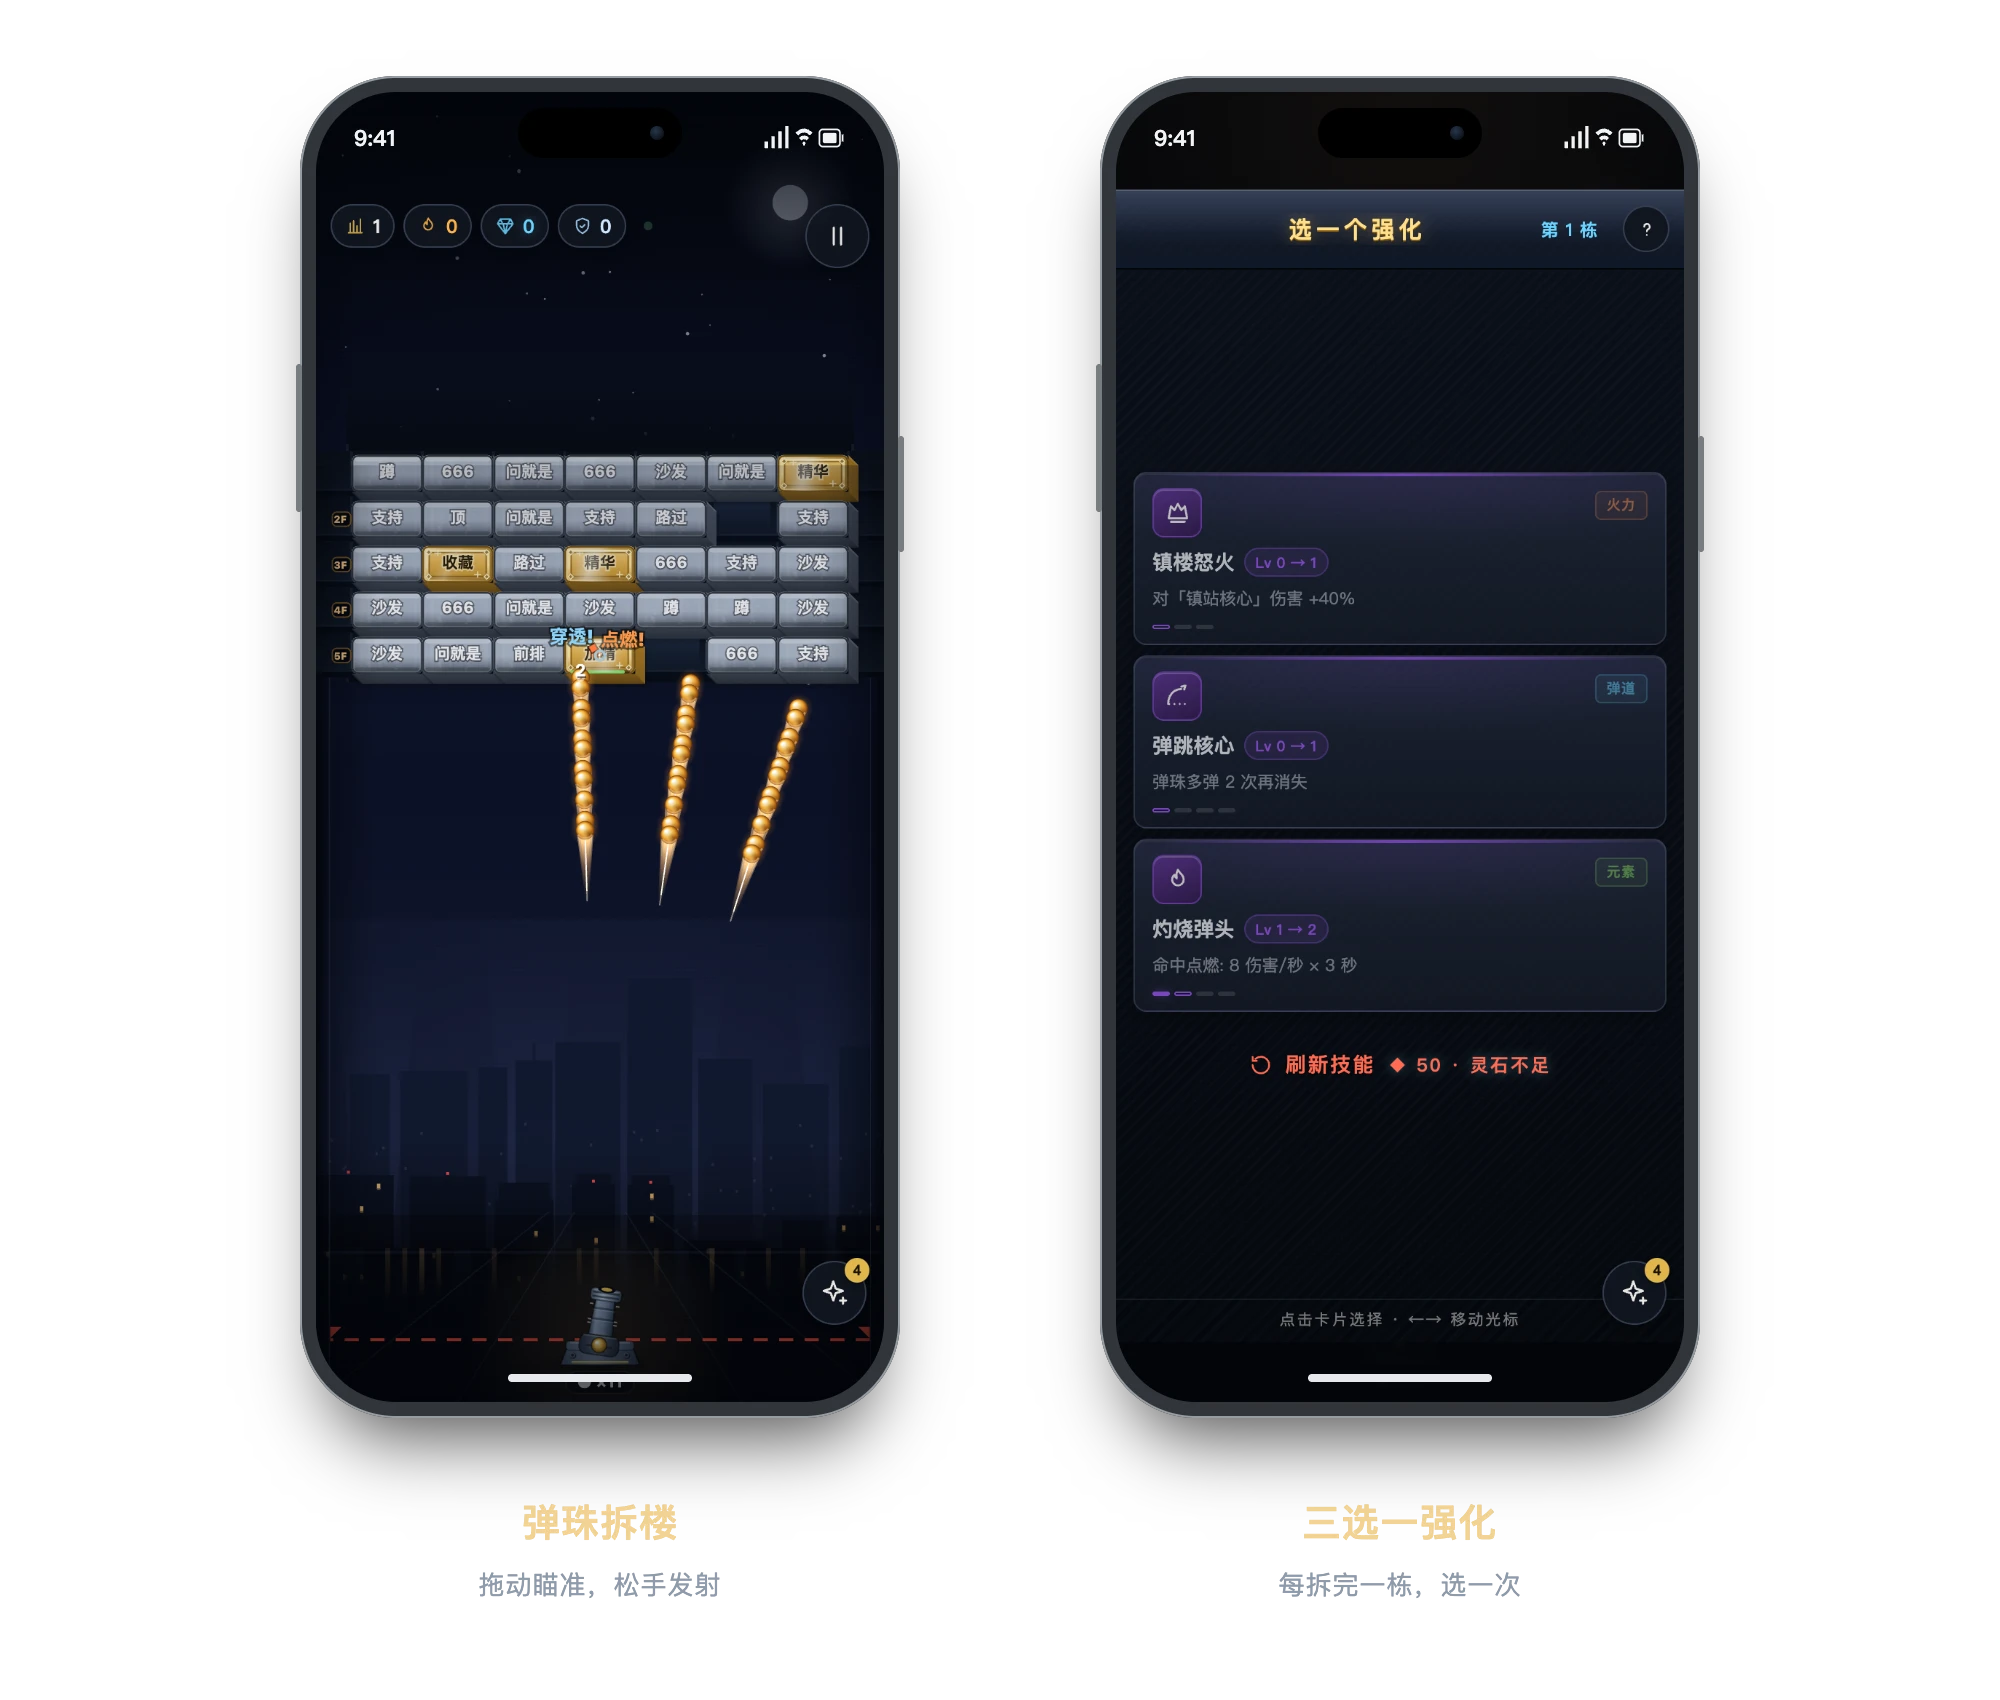
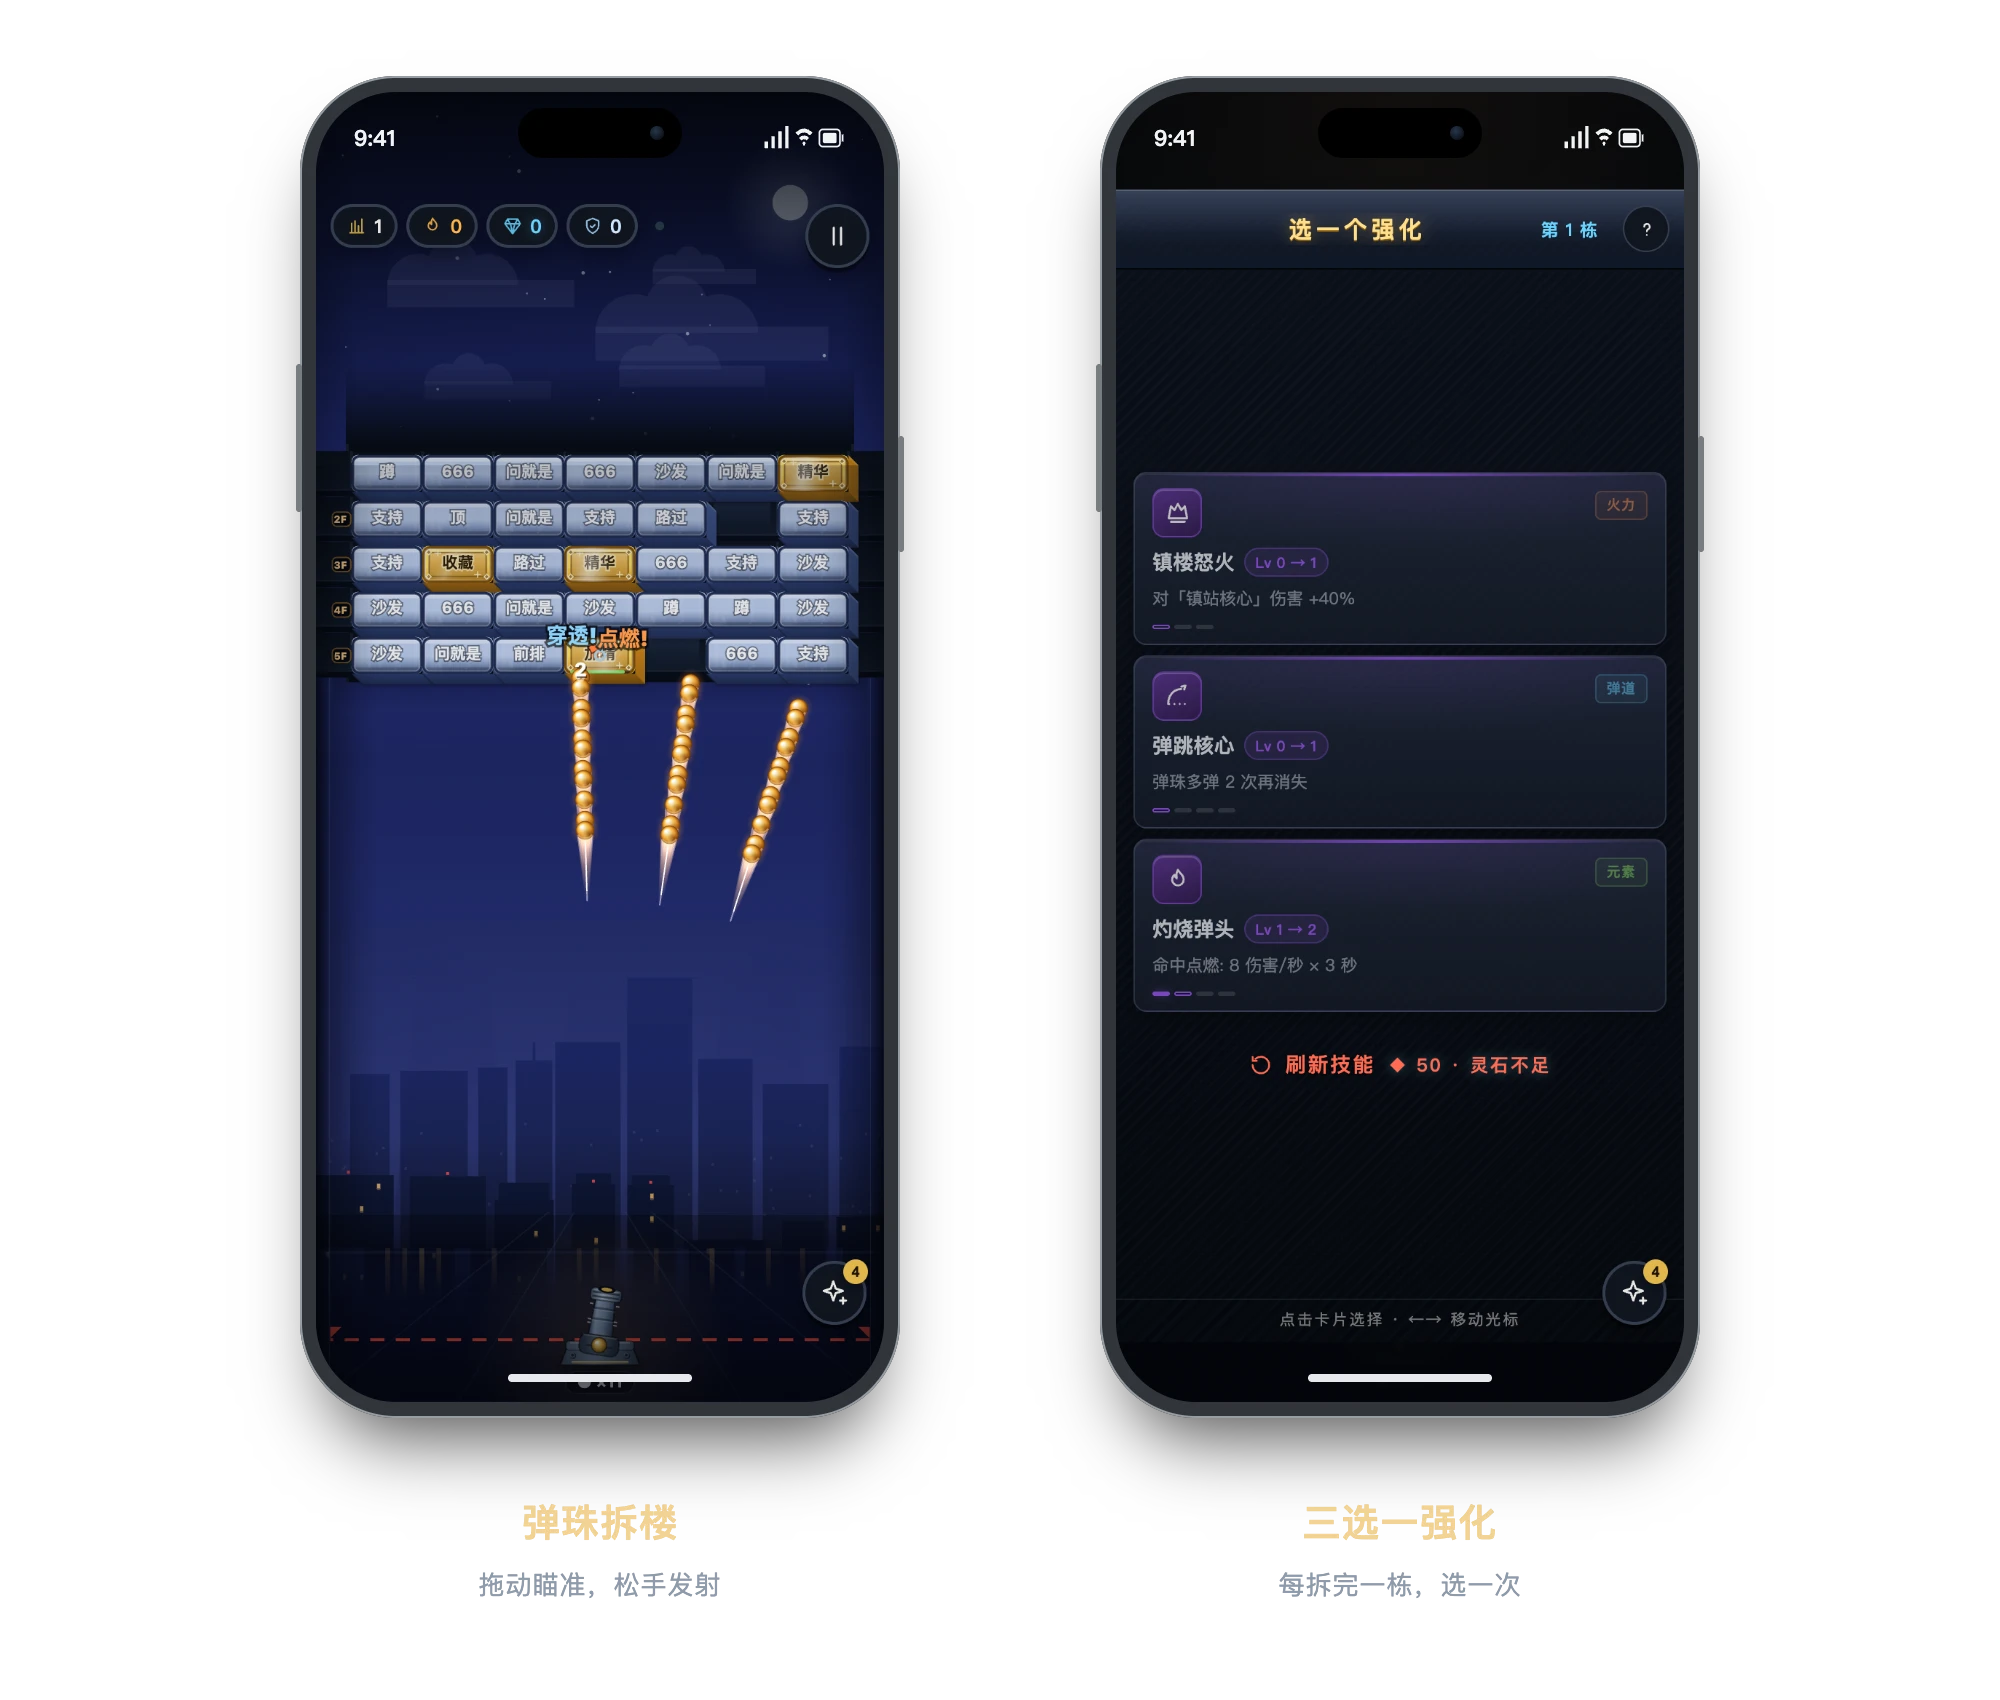
feat(art): 卡通美术风改造(对齐向僵尸开炮类弹幕手游)
- 场景色板:暗色=高饱和靛蓝紫卡通夜,亮色=明快蓝天白昼;城市剪影/地面同步提饱和
- 新增烘焙卡通云(亮色白云团/暗色淡紫云絮)
- 砖块材质全系提饱和+粗描边(1.25→2)+糖果高光;弹字加大加粗
- UI:徽章/圆钮/Dock 描边加粗、硬底边阴影
- 适配扫描通过:320×568 / 390×844 / 430×932 / 768×1024 / 844×390 / 1440×900

Changed region(s): [[0.155, 0.1247, 0.465, 0.7171]]

diff --git a/src/render/draw.ts b/src/render/draw.ts
@@ -119,97 +119,103 @@ interface Material {
  * Every brick kind gets its own material signature: base gradient, frame and
  * accent. Baked into the sprite so per-frame cost stays one drawImage.
  */
+/**
+ * 卡通风材质:高饱和色块 + 深描边 + 高光,颜色向《向僵尸开炮》
+ * 那类明亮弹幕手游对齐(顶面亮、底面饱和深色、边框近黑)。
+ */
 const BRICK_MATERIALS: Record<string, Material> = {
   spam: {
-    top: "#a9b4c3",
-    bottom: "#565f6c",
-    border: "#31383f",
-    side: "#48505c",
-    under: "#353c45",
-    accent: "#e6eef8",
+    top: "#b9cbe8",
+    bottom: "#4d6394",
+    border: "#1f2c50",
+    side: "#3c5184",
+    under: "#26355f",
+    accent: "#eaf3ff",
   },
   gold: {
-    top: "#ffeaa6",
-    bottom: "#c98f28",
-    border: "#79540f",
-    side: "#a3741e",
-    under: "#7c5814",
-    accent: "#fff4c8",
-    glow: "rgba(255,201,90,0.45)",
-    ink: "#241a05",
-    inkStroke: "rgba(255,247,214,0.55)",
+    top: "#ffe25c",
+    bottom: "#e89516",
+    border: "#7c4e05",
+    side: "#c47f12",
+    under: "#8f5c0b",
+    accent: "#fff6bd",
+    glow: "rgba(255,201,90,0.5)",
+    ink: "#2c1d03",
+    inkStroke: "rgba(255,249,214,0.6)",
   },
   flame: {
-    top: "#ff9d7c",
-    bottom: "#a82e1b",
-    border: "#6f1d10",
-    side: "#8a2a18",
-    under: "#672012",
-    accent: "#ffd08a",
-    glow: "rgba(255,110,60,0.4)",
+    top: "#ff8a5f",
+    bottom: "#d93317",
+    border: "#661108",
+    side: "#b02a12",
+    under: "#7e1c0c",
+    accent: "#ffcb7d",
+    glow: "rgba(255,110,60,0.45)",
   },
   bomb: {
-    top: "#ffc078",
-    bottom: "#b64b0b",
-    border: "#7d3208",
-    side: "#98400c",
-    under: "#743009",
-    accent: "#ffd766",
-    glow: "rgba(255,150,60,0.4)",
+    top: "#ffab42",
+    bottom: "#e56f0c",
+    border: "#6e3505",
+    side: "#c05a0e",
+    under: "#8a4108",
+    accent: "#ffdb70",
+    glow: "rgba(255,150,60,0.45)",
   },
   steel: {
-    top: "#dde9f7",
-    bottom: "#75889f",
-    border: "#3d4b60",
-    side: "#5e7089",
-    under: "#4a5768",
-    accent: "#f4faff",
-    ink: "#14202c",
-    inkStroke: "rgba(240,247,255,0.6)",
+    top: "#e6f1ff",
+    bottom: "#6d8fc4",
+    border: "#2b4472",
+    side: "#5273a8",
+    under: "#3a5484",
+    accent: "#f7fbff",
+    ink: "#101d34",
+    inkStroke: "rgba(242,249,255,0.65)",
   },
   healer: {
-    top: "#a8e8a9",
-    bottom: "#2f8845",
-    border: "#1d5f2d",
-    side: "#2f7c41",
-    under: "#215c31",
-    accent: "#eaffea",
-    glow: "rgba(120,230,120,0.4)",
+    top: "#9bf284",
+    bottom: "#229a3e",
+    border: "#0f5a24",
+    side: "#1d8c37",
+    under: "#136128",
+    accent: "#e6ffdd",
+    glow: "rgba(120,240,120,0.45)",
   },
   mirror: {
-    top: "#f5faff",
-    bottom: "#8fa4bb",
-    border: "#54687e",
-    side: "#7d90a7",
-    under: "#63758a",
+    top: "#ffffff",
+    bottom: "#96b3d8",
+    border: "#3c5478",
+    side: "#7a94ba",
+    under: "#576f92",
     accent: "#ffffff",
-    ink: "#16202c",
-    inkStroke: "rgba(245,250,255,0.65)",
+    ink: "#131e30",
+    inkStroke: "rgba(247,252,255,0.7)",
   },
   core: {
-    top: "#4a2569",
-    bottom: "#180a26",
-    border: "#2b1242",
-    side: "#30144a",
-    under: "#1d0d2e",
-    accent: "#d6a6ff",
-    glow: "rgba(190,100,255,0.5)",
-    ink: "#f7e9ff",
-    inkStroke: "rgba(26,6,44,0.85)",
+    top: "#b84fe0",
+    bottom: "#5c1188",
+    border: "#33084f",
+    side: "#8f2cb8",
+    under: "#410a63",
+    accent: "#f0b6ff",
+    glow: "rgba(200,110,255,0.55)",
+    ink: "#fbeaff",
+    inkStroke: "rgba(38,6,58,0.85)",
   },
 };
 
 const SKY = {
-  dark: { top: "#060a19", mid: "#101733", bottom: "#1e2749" },
-  light: { top: "#dde6f2", mid: "#c8d5e8", bottom: "#aebdd3" },
+  // 卡通夜:高饱和靛蓝紫黄昏,而不是写实暗夜。
+  dark: { top: "#141c52", mid: "#283487", bottom: "#4653bd" },
+  // 卡通白昼:明快蓝天。
+  light: { top: "#6fc2f6", mid: "#a3dcfb", bottom: "#ccf0ff" },
 };
-const SKYLINE_FAR = { dark: "#111a30", light: "#a8b5c8" };
+const SKYLINE_FAR = { dark: "#1c2765", light: "#7aa6e2" };
 
 /** Near skyline parallax band (only this slice can ever be on screen). */
 const NEAR_BAND_H = 186;
 /** Ground band: haze + wet asphalt. */
 const GROUND_H = 132;
-const SKYLINE_NEAR = { dark: "#0a0f1e", light: "#8594a9" };
+const SKYLINE_NEAR = { dark: "#0d1533", light: "#5a83c0" };
 
 /** Stars are re-scattered per background bake: the sky height follows the screen. */
 let STARS: Array<{ x: number; y: number; r: number; phase: number; speed: number }> = [];
@@ -602,6 +608,28 @@ export function createRenderer(canvas: HTMLCanvasElement): Renderer {
         }
         farX += w + 2 + farRng() * 6;
       }
+      // Cartoon clouds: chunky white puffs on day sky, soft violet wisps on
+      // night sky. Baked, deterministic, kept away from the moon / sun corner.
+      const clouds = linGrad(s, 0, Hw * 0.06, 0, Hw * 0.42, [
+        [0, dark ? "rgba(150,160,230,0.20)" : "rgba(255,255,255,0.95)"],
+        [1, dark ? "rgba(150,160,230,0)" : "rgba(255,255,255,0.55)"],
+      ]);
+      const cloudRng = makeRng("sky-clouds");
+      for (let i = 0; i < 7; i++) {
+        const cx = 30 + cloudRng() * (W - 60);
+        const cy = Hw * 0.08 + cloudRng() * Hw * 0.3;
+        if (cy > horizon - 210) continue;
+        const cw = 46 + cloudRng() * 72;
+        const ch2 = cw * 0.38;
+        s.fillStyle = clouds;
+        s.beginPath();
+        s.arc(cx, cy, ch2 * 0.62, Math.PI, 0);
+        s.arc(cx + cw * 0.26, cy - ch2 * 0.42, ch2 * 0.5, Math.PI, 0);
+        s.arc(cx + cw * 0.52, cy, ch2 * 0.62, Math.PI, 0);
+        s.closePath();
+        s.fill();
+        s.fillRect(cx - ch2 * 0.62, cy - ch2 * 0.1, cw + ch2 * 1.1, ch2 * 0.55);
+      }
       // Distant window dust.
       s.fillStyle = dark ? "rgba(190,208,255,0.16)" : "rgba(255,255,255,0.28)";
       const rngFar = makeRng("far-windows");
@@ -681,14 +709,14 @@ export function createRenderer(canvas: HTMLCanvasElement): Renderer {
       // Haze fading the skyline base into the ground.
       s.fillStyle = linGrad(s, 0, Hw - 120, 0, Hw, [
         [0, "rgba(0,0,0,0)"],
-        [1, dark ? "rgba(6,9,18,0.85)" : "rgba(90,104,128,0.45)"],
+        [1, dark ? "rgba(12,16,44,0.85)" : "rgba(78,108,156,0.4)"],
       ]);
       s.fillRect(-extL, Hw - 120, extW, 120);
       // Wet asphalt.
       s.fillStyle = linGrad(s, 0, Hw - 108, 0, Hw, [
-        [0, dark ? "rgba(10,15,28,0.55)" : "rgba(150,162,180,0.35)"],
-        [0.35, dark ? "rgba(6,10,20,0.9)" : "rgba(116,128,148,0.55)"],
-        [1, dark ? "rgba(3,5,11,0.98)" : "rgba(92,104,124,0.7)"],
+        [0, dark ? "rgba(20,28,72,0.55)" : "rgba(178,198,230,0.4)"],
+        [0.35, dark ? "rgba(12,18,52,0.9)" : "rgba(148,170,208,0.6)"],
+        [1, dark ? "rgba(8,12,36,0.98)" : "rgba(116,138,178,0.75)"],
       ]);
       s.fillRect(-extL, Hw - 108, extW, 108);
       if (dark) {
@@ -890,8 +918,8 @@ export function createRenderer(canvas: HTMLCanvasElement): Renderer {
     s.fillStyle = grad;
     roundRectOn(s, 0, 0, bw, BRICK_H, 4);
     s.fill();
-    // Glass top edge.
-    s.fillStyle = "rgba(255,255,255,0.30)";
+    // Glossy candy top edge.
+    s.fillStyle = "rgba(255,255,255,0.42)";
     roundRectOn(s, 2.2, 1.4, bw - 4.4, 3.2, 1.8);
     s.fill();
     // Bottom contact shading inside the front face.
@@ -1342,15 +1370,15 @@ export function createRenderer(canvas: HTMLCanvasElement): Renderer {
     s.clip();
     paintMaterialDetail(s, bw, mat, kind);
     s.restore();
-    // 4. Front border (dark outline keeps bricks readable on any backdrop).
+    // 4. Front border (thick near-black outline = the cartoon look).
     s.strokeStyle = mat.border;
-    s.lineWidth = 1.25;
-    roundRectOn(s, 0.7, 0.7, bw - 1.4, BRICK_H - 1.4, 3.6);
+    s.lineWidth = 2;
+    roundRectOn(s, 1, 1, bw - 2, BRICK_H - 2, 4.5);
     s.stroke();
-    // Inner bright lip on the top edge for a crisp arcade bevel.
-    s.strokeStyle = "rgba(255,255,255,0.16)";
-    s.lineWidth = 0.8;
-    roundRectOn(s, 1.5, 1.5, bw - 3, BRICK_H - 3, 3.2);
+    // Inner bright lip on the top edge for a crisp candy bevel.
+    s.strokeStyle = "rgba(255,255,255,0.3)";
+    s.lineWidth = 1;
+    roundRectOn(s, 2, 2, bw - 4, BRICK_H - 4, 3.4);
     s.stroke();
     return cv;
   }
@@ -3167,10 +3195,10 @@ export function createRenderer(canvas: HTMLCanvasElement): Renderer {
         };
         const isProc = p.kind === "proc";
         ctx.font = isProc
-          ? "900 13px system-ui, sans-serif"
+          ? "900 15px system-ui, sans-serif"
           : p.crit
-            ? "900 18px system-ui, sans-serif"
-            : "700 12px system-ui, sans-serif";
+            ? "900 21px system-ui, sans-serif"
+            : "800 13.5px system-ui, sans-serif";
         ctx.textAlign = "center";
         const fill = isProc
           ? (procInk[p.proc ?? ""] ?? "#ffffff")
@@ -3187,8 +3215,8 @@ export function createRenderer(canvas: HTMLCanvasElement): Renderer {
           ctx.fillStyle = "rgba(0,0,0,0.55)";
           ctx.fillText(p.text, p.x + 1, py + 1);
         } else {
-          ctx.strokeStyle = "rgba(0,0,0,0.55)";
-          ctx.lineWidth = p.crit ? 4 : 3;
+          ctx.strokeStyle = "rgba(0,0,0,0.65)";
+          ctx.lineWidth = p.crit ? 5 : 3.5;
           ctx.strokeText(p.text, p.x, py);
         }
         ctx.fillStyle = fill;

diff --git a/src/style.css b/src/style.css
@@ -127,10 +127,10 @@ body {
   display: inline-flex;
   align-items: center;
   gap: 5px;
-  padding: 5px 9px;
+  padding: 4px 9px;
   border-radius: 999px;
   background: var(--panel-2);
-  border: 1px solid var(--panel-border);
+  border: 2px solid var(--panel-border);
   backdrop-filter: blur(10px);
   -webkit-backdrop-filter: blur(10px);
   box-shadow: 0 4px 14px rgba(0, 0, 0, 0.35);
@@ -186,12 +186,14 @@ body {
   height: 44px;
   flex: 0 0 auto;
   border-radius: 50%;
-  border: 1px solid var(--panel-border);
+  border: 2px solid var(--panel-border);
   background: var(--panel-2);
   color: var(--primary);
   backdrop-filter: blur(10px);
   -webkit-backdrop-filter: blur(10px);
-  box-shadow: 0 4px 14px rgba(0, 0, 0, 0.35);
+  box-shadow:
+    0 3px 0 rgba(0, 0, 0, 0.45),
+    0 6px 14px rgba(0, 0, 0, 0.3);
   display: inline-flex;
   align-items: center;
   justify-content: center;
@@ -6266,8 +6268,8 @@ body,
   gap: 4px;
   width: min(430px, 100%);
   padding: 8px 10px;
-  border: 1px solid var(--panel-border);
-  border-radius: 24px;
+  border: 2px solid var(--panel-border);
+  border-radius: 26px;
   background: var(--panel-strong-2);
   backdrop-filter: blur(16px);
   -webkit-backdrop-filter: blur(16px);
